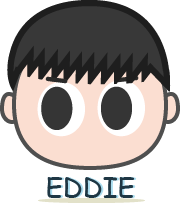
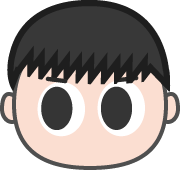
fix 修改avatar / 調整dark mode - nav border

diff --git a/src/App.js b/src/App.js
@@ -12,9 +12,9 @@ function App() {
   const [darkMode, setDarkMode] = useState(false);
   return (
     <div className={darkMode ? "dark" : ""}>
-      <main className="bg-primary p-5 md:px-20 lg:px-30 dark:bg-gray-900 transition">
+      <main className="bg-primary p-5 md:px-20 lg:px-30 dark:bg-gray-800 transition">
         <header>
-          <nav className="max-w-3xl mx-auto p-2 md:p-5 mb-12 flex justify-between items-center rounded-md dark:bg-slate-800">
+          <nav className="max-w-3xl mx-auto p-2 md:p-5 mb-12 flex justify-between items-center rounded-md dark:bg-slate-800 dark:border dark:border-slate-700">
             <h1 className="text-xl font-bold dark:text-white">Chen Yi Xian</h1>
             <ul className="flex items-center gap-5">
               <li
@@ -49,11 +49,11 @@ function App() {
         </header>
         <article className="lg:max-w-3xl mx-auto">
           <section className="mb-12">
-            <div className="flex items-center bg-gradient-to-b from-teal-500 rounded-full w-56 h-56 mx-auto overflow-hidden mb-12">
+            <div className="mb-12 mx-auto w-40 h-40 md:w-56 md:h-56 flex items-center bg-gradient-to-b from-teal-500 rounded-full  overflow-hidden">
               <img
                 src={avatar}
                 alt="dev-ed-wave"
-                className="object-cover mx-auto"
+                className="object-cover mx-auto w-3/4 md:w-auto"
               />
             </div>
             <div className="dark:text-white">

diff --git a/tailwind.config.js b/tailwind.config.js
@@ -9,6 +9,7 @@ module.exports = {
       },
       backgroundColor: {
         primary: "#F1E7DC",
+        dark: "#202023",
         secondary: "#F5F0E8",
       },
       borderColor: {
